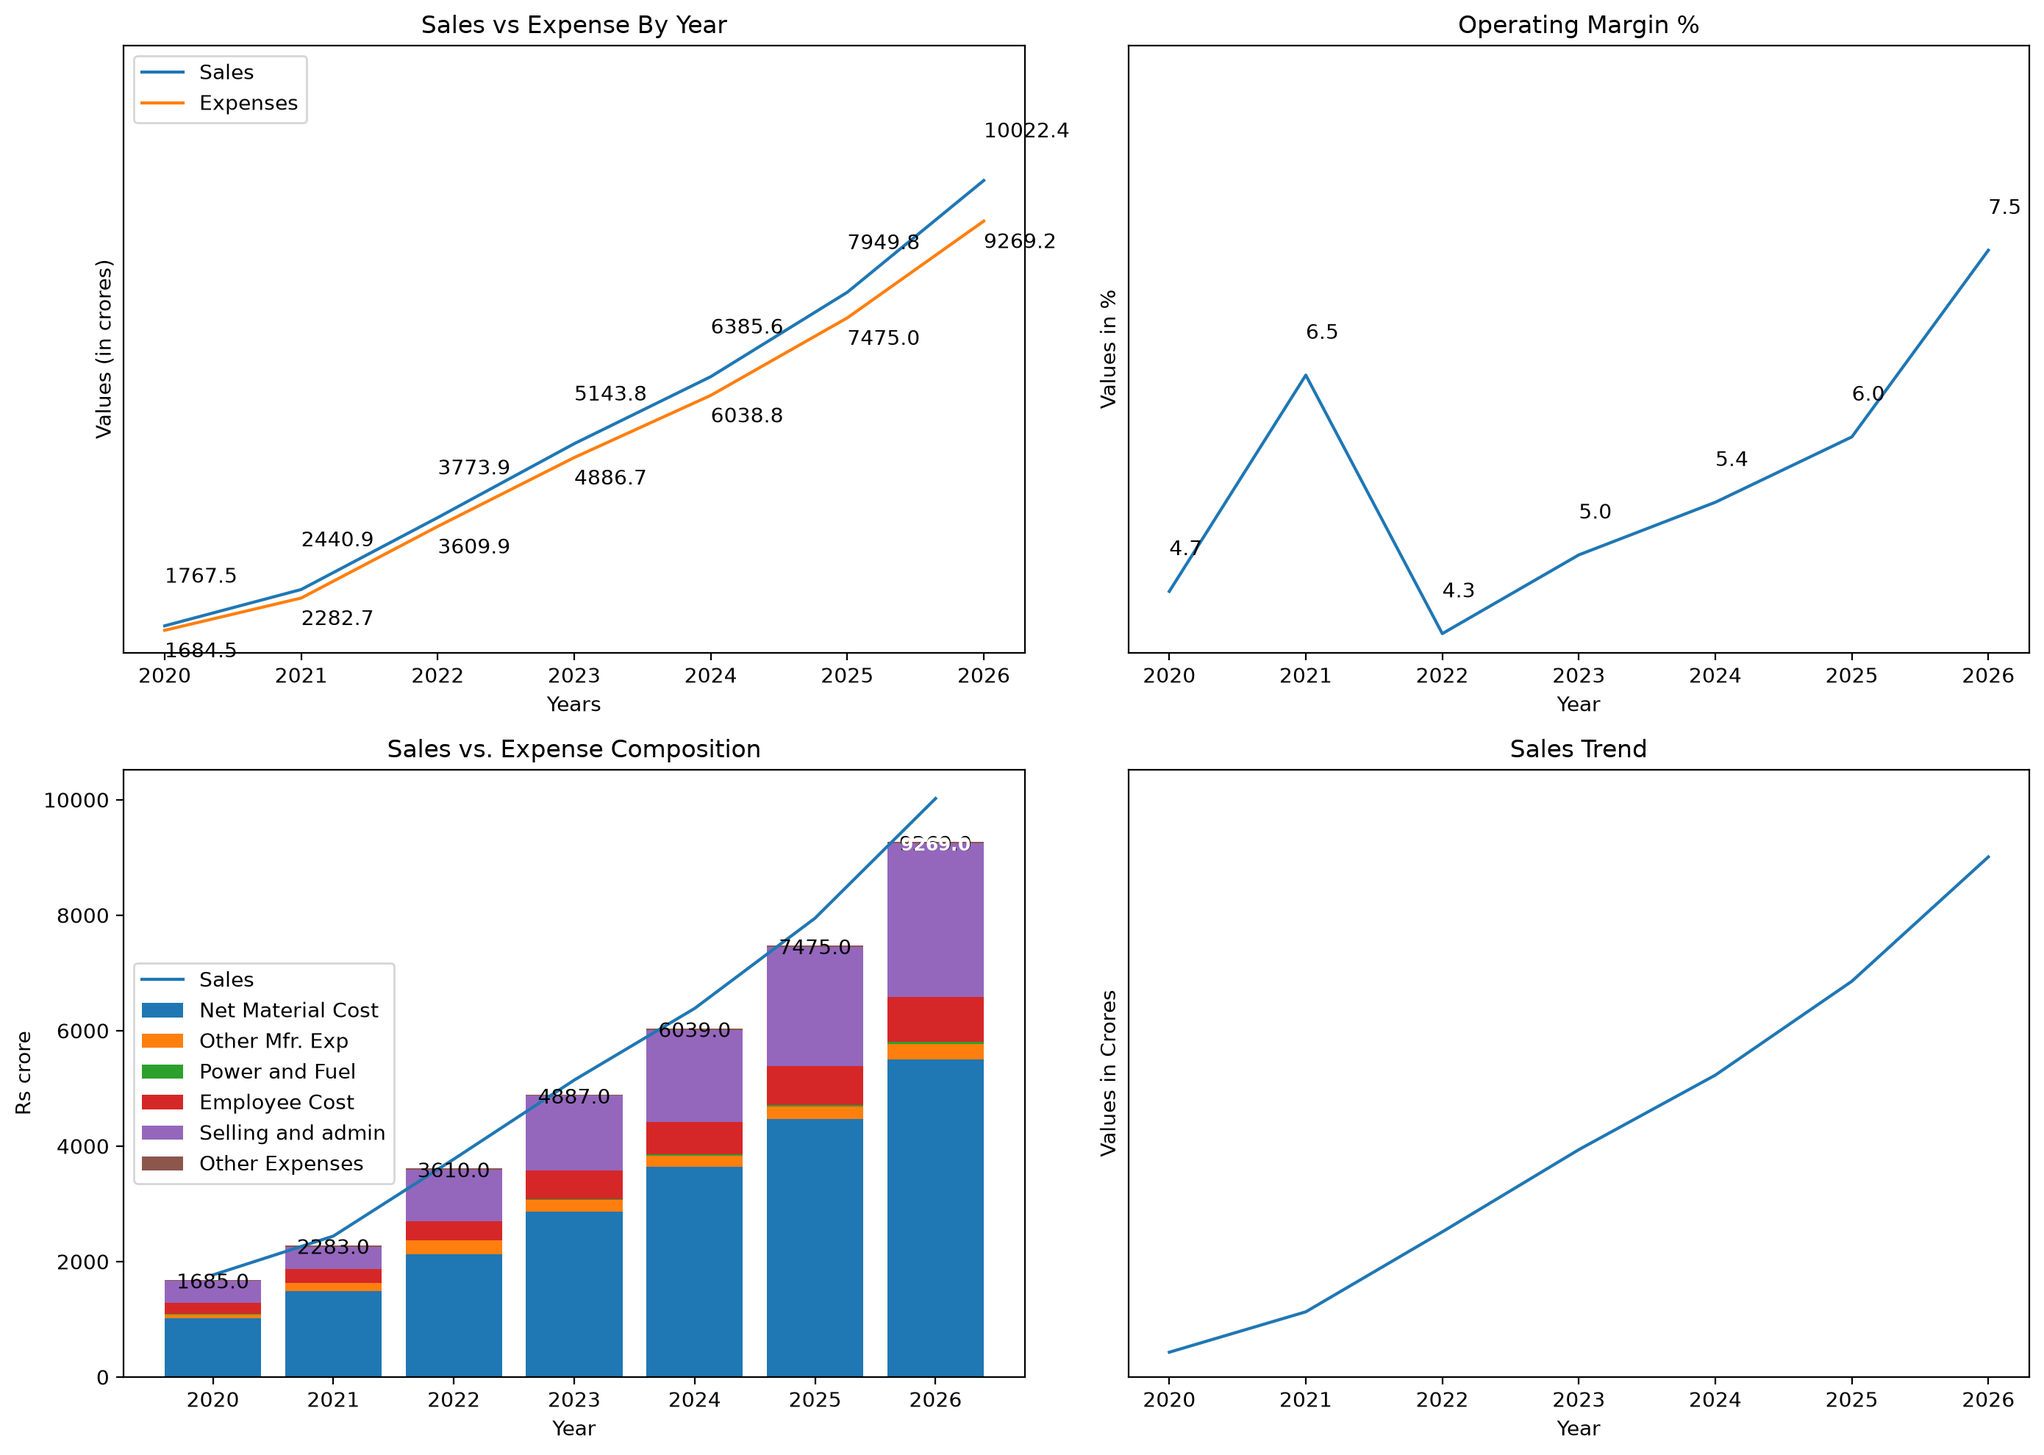
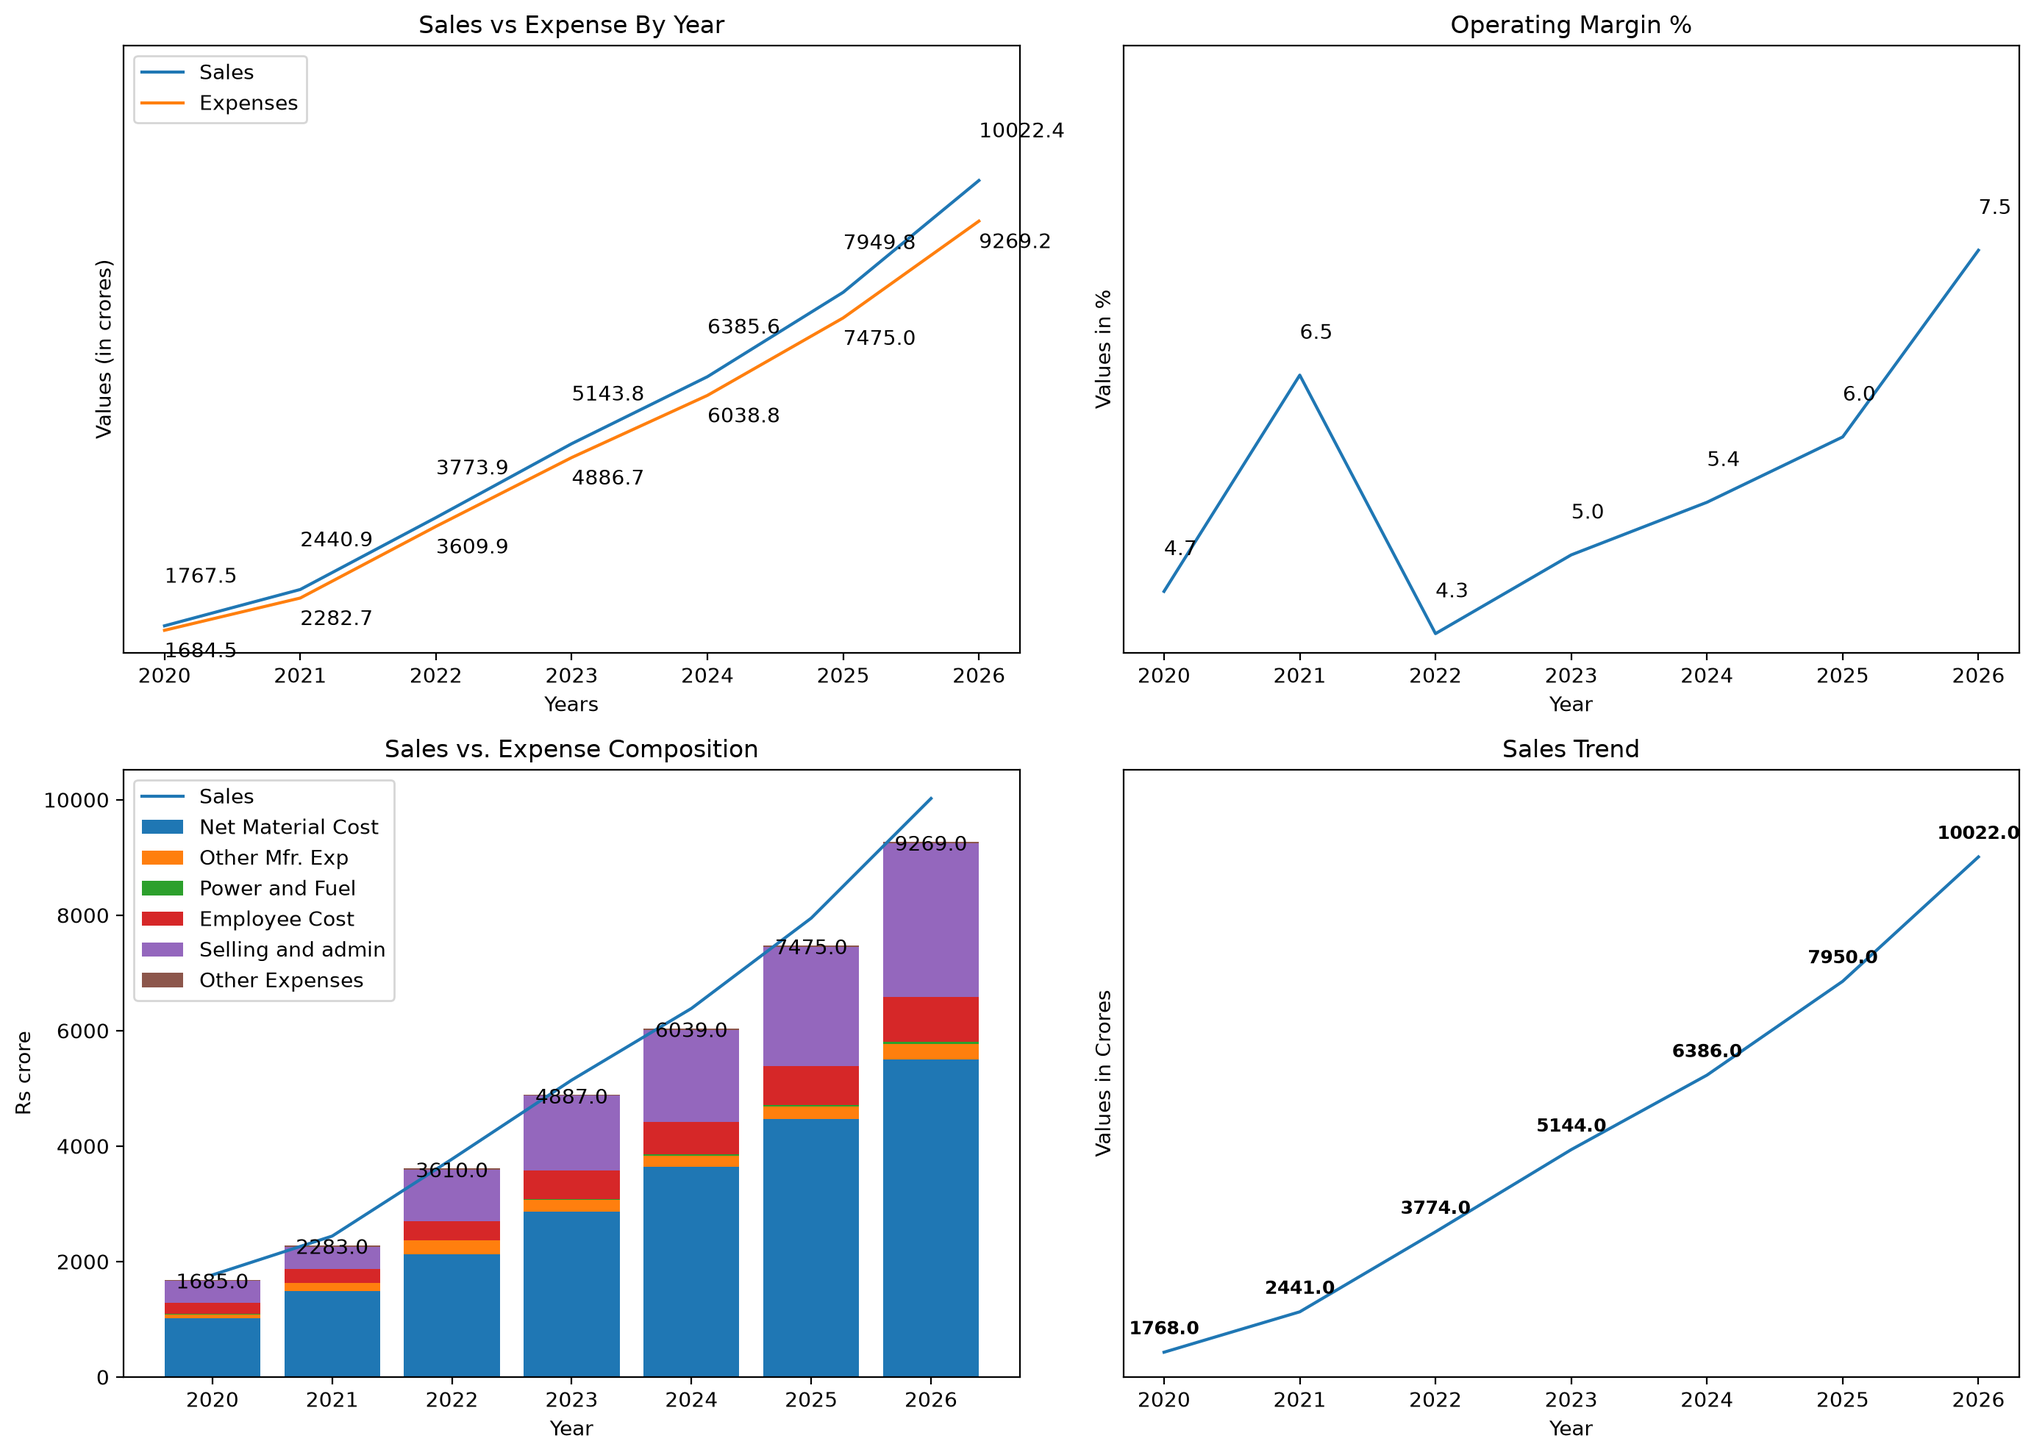
Done Cleanups and .Env Based DB Password

diff --git a/app.py b/app.py
@@ -1,8 +1,20 @@
+"""Nykaa financial analysis pipeline (FY20-FY26).
+Flow: MySQL tables -> pivot to wide -> ratios -> charts -> cash flow bridge -> DCF.
+All money in Rs crore, consolidated. Run: python app.py
+Inputs: MySQL database nykaa_analysis; DB_PASSWORD environment variable.
+Outputs: PNG charts in /charts."""
+
+
 # pyright: reportMissingModuleSource=false, reportMissingImports=false
 import pandas as pd
 import mysql.connector as mysql
 import matplotlib.pyplot as plt
 import os
+from dotenv import load_dotenv
+
+load_dotenv()
+
+DB_Password = os.getenv("DB_Password") 
 
 os.makedirs("charts", exist_ok=True)
 
@@ -10,20 +22,18 @@ pd.set_option('display.max_columns',None)
 pd.set_option('display.width', 1000)
 
 #-----Sql Connection ---------
-
 conn = mysql.connect(
     host = "localhost",
     user= "root",
-    password = "Your Password",
+    password = DB_Password,
     database = "nykaa_analysis")
 
 if conn :
-    print("Connected Sucessfully ")
+    print("Connected Sucessfully")
 else:
     print("Not Connected ")
 
-cursor = conn.cursor()
-#----Data Injection-----
+#----Data ingestion-----
 df_pnl = pd.read_sql("select * from incomestatement_annual",con= conn)
 df_pnl_detailed = pd.read_sql("select * from incomestatement_detailed",con= conn)
 df_balancesheet = pd.read_sql("select * from balancesheet_annual",con= conn)
@@ -40,20 +50,39 @@ df_cashflow_wide = df_cashflow.pivot(index="Year",columns="Metric",values = "Val
 
 #--creating required ratios of pnl statement ----
 df_pnl_wide['Net Profit Margin']= df_pnl_wide['Net profit']/df_pnl_wide['Sales']*100
-df_pnl_wide['Net Operating Margin']= df_pnl_wide['Operating Profit']/df_pnl_wide['Sales']*100
+df_pnl_wide['Net Operating Margin']= df_pnl_wide['Operating Profit']/df_pnl_wide['Sales']*100 #Operating profit cansidered is before depriciation
 df_pnl_wide['Sales (prev year)'] = df_pnl_wide['Sales'].shift(1)
 df_pnl_wide['YoY Growth %'] = (df_pnl_wide['Sales']-df_pnl_wide['Sales (prev year)'])/df_pnl_wide['Sales (prev year)']*100
 df_pnl_wide['Expense (prev year)'] = df_pnl_wide['Expenses'].shift(1)
 df_pnl_wide['YoY Expense %'] = (df_pnl_wide['Expenses']-df_pnl_wide['Expense (prev year)'])/df_pnl_wide['Expense (prev year)']*100
 df_pnl_wide["Interest % of sales"] = df_pnl_wide['Interest']/df_pnl_wide['Sales']*100
-df_pnl_wide["Depriciation % of sales"] = df_pnl_wide['Depreciation']/df_pnl_wide['Sales']*100
+df_pnl_wide["Depreciation % of sales"] = df_pnl_wide['Depreciation']/df_pnl_wide['Sales']*100
+df_pnl_wide['Interest Coverage'] = df_pnl_wide['Operating Profit'] / df_pnl_wide['Interest'] #interest coverage uses that EBITDA-like profit, so it is flattering compared with an EBIT version
 
-#------------more ratios------------
+#Creating Detailed Ratios
 df_pnl_detailed_wide['Raw Material % of sales'] = df_pnl_detailed_wide['Raw Material Cost']/df_pnl_detailed_wide['Sales']*100
 df_pnl_detailed_wide['Power and Fuel % of sales'] = df_pnl_detailed_wide['Power and Fuel']/df_pnl_detailed_wide['Sales']*100
 df_pnl_detailed_wide['Employee Cost % of Sales'] = df_pnl_detailed_wide['Employee Cost']/df_pnl_detailed_wide['Sales']*100
 df_pnl_detailed_wide['Selling and admin % of sales'] = df_pnl_detailed_wide['Selling and admin']/df_pnl_detailed_wide['Sales']*100
 df_pnl_detailed_wide['Other Expenses% of sales'] = df_pnl_detailed_wide['Other Expenses']/df_pnl_detailed_wide['Sales']*100
+
+# Net material cost = raw material purchased adjusted for the change in stock.Used as the cost base for inventory and payable days,
+#which is why those days differ from the sales-basis versions.
+df_pnl_detailed_wide["Net Material Cost"] = df_pnl_detailed_wide["Raw Material Cost"] - df_pnl_detailed_wide["Change in Inventory"]
+
+#-----------Working Capital Ratios--------------
+
+df_workincapital_wide['Debtor Days'] = (df_workincapital_wide['Debtors']/df_pnl_detailed_wide['Sales'])*365
+df_workincapital_wide['Inventory turn-over']= df_pnl_wide['Sales']/df_workincapital_wide['Inventory']
+df_workincapital_wide['Inventory Days (sales basis)'] = 365/df_workincapital_wide['Inventory turn-over'] #Sales basis: uses sales as the base, so it is comparable across companies.
+df_workincapital_wide['Inventory Days (cost basis)'] = df_workincapital_wide['Inventory']/df_pnl_detailed_wide['Net Material Cost']*365 #It was created on cost basis and used net Material cost as the COGS were not available.
+df_workincapital_wide['Operating Cycle (sales basis)'] = df_workincapital_wide['Debtor Days']+df_workincapital_wide['Inventory Days (sales basis)'] #Operating Cycle calculated with Debtor days and Inventory Days(Sales Basis) the cash conversion cycle later subtracts payables.
+df_workincapital_wide['Change in Inventory'] = df_workincapital_wide['Inventory']-df_workincapital_wide['Inventory'].shift(1) #Change in Inventory calculated on current year closing minus previous year closing
+df_workincapital_wide['Change in Debtors'] = df_workincapital_wide['Debtors']-df_workincapital_wide['Debtors'].shift(1) #Change in Debtors calculated on current year closing minus previous year closing
+df_workincapital_wide['Cash effect of Inventory'] = df_workincapital_wide['Change in Inventory']*-1  #"*-1" Fliped the sign because rising inventory absorbs cash.
+df_workincapital_wide['Cash effect of Debtors'] = df_workincapital_wide['Change in Debtors']*-1 #"*-1" Fliped the sign because rise in debtors absorbes cash.
+df_workincapital_wide['WC cash effect'] = df_workincapital_wide['Cash effect of Debtors']+df_workincapital_wide['Cash effect of Inventory'] #Debtors and inventory only. Payables are added later in the comparison table.”
+
 
 #===================================
 #               CHARTS               
@@ -89,7 +118,6 @@ axes[0][1].set_yticks([])
 axes[0][1].set_ylim(top=axes[0][1].get_ylim()[1] * 1.20)
 
 # Chart 3: Stacked bar + Sales line
-df_pnl_detailed_wide["Net Material Cost"] = df_pnl_detailed_wide["Raw Material Cost"] - df_pnl_detailed_wide["Change in Inventory"]
 
 expense_columns = [
     "Net Material Cost", "Other Mfr. Exp", "Power and Fuel",
@@ -114,7 +142,7 @@ axes[1][0].legend()
 axes[1][1].set_title("Sales Trend")
 df_pnl_detailed_wide['Sales'].plot(ax=axes[1][1])
 for year, sales_value in zip(df_pnl_wide.index, df_pnl_wide['Sales']):
-    axes[1][0].text(year, total_value - 150, str(round(total_value, 0)), color="white", ha="center", fontsize=9, fontweight="bold")
+    axes[1][1].text(year, sales_value +300, str(round(sales_value, 0)), color="black", ha="center", fontsize=9, fontweight="bold")
 
 axes[1][1].set_yticks([])
 axes[1][1].set_ylim(top=axes[1][1].get_ylim()[1] * 1.10)
@@ -122,12 +150,13 @@ axes[1][1].set_ylabel("Values in Crores")
 
 fig1.tight_layout()
 fig1.savefig("charts/pnl_ratio_chart.png", dpi=200, bbox_inches="tight")
+plt.close(fig1)
 
 #-----------------------------------------------------------------------------------------#
 #                       BALANCE SHEET                           
 #-----------------------------------------------------------------------------------------
 
-df_combined_bs = pd.merge(df_pnl_wide, df_balancesheet_wide, left_index=True, right_index=True)  #Combined Balace Sheet And P&L Statement
+df_combined_bs = pd.merge(df_pnl_wide, df_balancesheet_wide, left_index=True, right_index=True)  #Combined Balance Sheet And P&L Statement
 
 #=============================================
 #               Balancesheet Ratio 
@@ -136,9 +165,6 @@ df_combined_bs = pd.merge(df_pnl_wide, df_balancesheet_wide, left_index=True, ri
 df_combined_bs['ROE%'] = df_combined_bs['Net profit']/(df_combined_bs['Equity Share Capital']+df_combined_bs['Reserves'])*100
 
 df_combined_bs['Debt to Equity'] = df_combined_bs['Borrowings'] / (df_combined_bs['Equity Share Capital']+df_combined_bs['Reserves'])
-
-df_pnl_wide['Interest Coverage'] = df_pnl_wide['Operating Profit'] / df_pnl_wide['Interest']
-
 
 #=================================================
 #            Balancesheet Charts
@@ -178,23 +204,7 @@ axes[1][1].legend()
 
 fig2.tight_layout()
 fig2.savefig("charts/balancesheet_ratio_chart.png", dpi=200, bbox_inches="tight")
-
-
-#-----------Working Capital Ratios--------------
-
-df_workincapital_wide['Debtor Days'] = (df_workincapital_wide['Debtors']/df_pnl_detailed_wide['Sales'])*365
-df_workincapital_wide['Inventory turn-over']= df_pnl_wide['Sales']/df_workincapital_wide['Inventory']
-df_workincapital_wide['Inventory Days (sales basis)'] = 365/df_workincapital_wide['Inventory turn-over']
-df_workincapital_wide['Inventory Days (cost basis)'] = df_workincapital_wide['Inventory']/df_pnl_detailed_wide['Net Material Cost']*365
-df_workincapital_wide['Operating Cycle (sales basis)'] = df_workincapital_wide['Debtor Days']+df_workincapital_wide['Inventory Days (sales basis)']
-df_workincapital_wide['Change in Inventory'] = df_workincapital_wide['Inventory']-df_workincapital_wide['Inventory'].shift(1)
-df_workincapital_wide['Change in Debtors'] = df_workincapital_wide['Debtors']-df_workincapital_wide['Debtors'].shift(1)
-df_workincapital_wide['Cash effect of Inventory'] = df_workincapital_wide['Change in Inventory']*-1
-df_workincapital_wide['Cash effect of Debtors'] = df_workincapital_wide['Change in Debtors']*-1
-df_workincapital_wide['WC cash effect'] = df_workincapital_wide['Cash effect of Debtors']+df_workincapital_wide['Cash effect of Inventory']
-
-
-#print(df_workincapital_wide[['Debtor Days','Inventory Days (sales basis)','Operating Cycle (sales basis)']].round(1))
+plt.close(fig2)
 
 #================================================
 #             Working capital Charts 
@@ -214,14 +224,14 @@ for year, days  in zip(df_workincapital_wide.index, wc_running_total):
 axes.plot(df_workincapital_wide.index, df_workincapital_wide['Operating Cycle (sales basis)'], marker="o", color="black", label="Operating Cycle")
 axes.set_ylabel("Days")
 axes.set_xlabel("Year")
-axes.set_xticks(df_workincapital_wide.index) and axes.set_xticklabels([f"FY{str(y)[-2:]}" for y in df_workincapital_wide.index])
+axes.set_xticks(df_workincapital_wide.index) 
+axes.set_xticklabels([f"FY{str(y)[-2:]}" for y in df_workincapital_wide.index])
 axes.legend()
 axes.set_title("Operating Cycle: Inventory Days + Debtor Days (Sales basis)")
 
 fig3.tight_layout()
 fig3.savefig("charts/working_capital_chart.png", dpi=200, bbox_inches="tight")
-#plt.show()
-
+plt.close(fig3)
 
 #---------------Cash Flow Ratios------------
 df_combined_2 = pd.merge(df_pnl_wide,df_cashflow_wide,left_index= True , right_index= True) #P&L And Cashflow Combined 
@@ -229,23 +239,13 @@ df_combined_2 = pd.merge(df_pnl_wide,df_cashflow_wide,left_index= True , right_i
 
 df_combined_2['cash conversion ratio'] = df_combined_2['Cash from Operating Activity']/df_combined_2['Net profit']
 
-#print(df_combined_2[['Net profit','Cash from Operating Activity','cash conversion ratio']].round(2))
-
-#print(df_cashflow_wide.round(2))
-
-#print(df_workincapital_wide[['Debtors','Change in Debtors','Inventory', 'Change in Inventory','Cash effect of Inventory','Cash effect of Debtors','WC cash effect']])
-
-#print(df_pnl_wide['Depreciation'])
-
-
-
-#creating a conparison table to compare the distrubution across the cashflow 
+#creating a Comparison table to compare the Distribution across the cashflow 
 df_comparison = df_workincapital_wide[["WC cash effect"]].join(df_pnl_wide[["Depreciation", "Net profit"]]).join(df_cashflow_wide[["Cash from Operating Activity"]])
 df_comparison['Gap'] = df_comparison['Cash from Operating Activity']-df_comparison['Net profit']
 df_comparison['Unexplained'] = df_comparison['Gap']-df_comparison['WC cash effect']-df_comparison['Depreciation']
 
 
-#creting trade payble from sources 
+#Creating trade Payable from sources 
 
 data = {'Year':[2020,2021,2022,2023,2024,2025,2026],
     'Trade Payables':[313.27,316.21,362.05,265.39,386.69,634.83,732.50],
@@ -282,8 +282,6 @@ df_comparison['Fixed assets purchased'] = df_capex['Fixed assets purchased']
 
 df_comparison['FCF'] = df_comparison['Cash from Operating Activity']+df_comparison['Fixed assets purchased']
 
-#print(df_comparison.round(1))
-
 #Cash Conversion Chart 
 
 fig4, axes = plt.subplots(figsize=(10,6))
@@ -295,24 +293,25 @@ axes.grid(True)
 axes.set_xlabel("Fiscal Year")
 axes.set_ylabel("Days")
 axes.legend()
-axes.set_title("Cycle ended where it started: shorter supplier credit offset faster inventory")
+axes.set_title("Cash conversion cycle, FY20 to FY26")
 
 fig4.tight_layout()
-fig4.savefig("charts/cash_coversion", dpi=200, bbox_inches="tight")
+fig4.savefig("charts/cash_conversion_cycle_chart.png", dpi=200, bbox_inches="tight")
+plt.close(fig4)
 
 
 #Creating DCF 
 sales_base = 10022.35 #2026 Sales 
 Growth = [0.22, 0.19, 0.16, 0.13, 0.10] #Growth Assumption Rates For 2027 - 2031
 fc_Operating_Margin = [0.08, 0.085, 0.09, 0.095, 0.10] #Forecasted Operating Margin Assumption Rates For 2027 - 2031
-fc_capex = [0.018684, 0.022004, 0.025323, 0.028643, 0.031962]
+fc_capex = [0.018684, 0.022004, 0.025323, 0.028643, 0.031962] #Capex ramps from the FY26 level (154 ÷ 10,022 = 1.54%) up to the depreciation share (3.20%)
 discount_rate = 0.12 #Fixed Discount Rate 
 terminal_growth = 0.05
+tax_rate = 0.25
+wc_pct = 0.1196 #0.1196 is the wc_pct which is derived from (inventory + debtors − payables) ÷ sales.
+dep_share = 320.33 / 10022.35 # Depreciation Share Calculation for future Depreciation values
 
-
-dep_share = 320.33 / 10022.35 # Depriciation Share Calculation for future depriciation values
-
-#calculating forcasted sales value on the basis growth assumption
+#calculating forecasted sales value on the basis growth assumption
 fc_sales = []                       
 current_sales = sales_base          
 
@@ -335,27 +334,23 @@ forecasts['Op Margin'] = fc_Operating_Margin
 forecasts['Op Profit'] = forecasts['Op Margin']*forecasts['Sales']
 forecasts["Depreciation"] = forecasts["Sales"] * dep_share
 forecasts["EBIT"] = forecasts['Op Profit'] - forecasts["Depreciation"] 
-forecasts["NOPAT"] = forecasts["EBIT"] *(1-0.25)
+forecasts["NOPAT"] = forecasts["EBIT"] *(1-tax_rate)
 forecasts["Capex"] = forecasts['Sales']*fc_capex
-forecasts["Increse in WC"] = 0.1196*(forecasts['Sales']-forecasts['Sales'].shift(1,fill_value=sales_base))
-forecasts["FCFF"] = forecasts["NOPAT"]+forecasts["Depreciation"]-forecasts["Capex"]-forecasts["Increse in WC"]
+forecasts["Increase in WC"] = wc_pct*(forecasts['Sales']-forecasts['Sales'].shift(1,fill_value=sales_base))  #0.1196 is the wc_pct which is derived from (inventory + debtors − payables) ÷ sales.
+forecasts["FCFF"] = forecasts["NOPAT"]+forecasts["Depreciation"]-forecasts["Capex"]-forecasts["Increase in WC"]
 
 #discount the cash flows to today
-forecasts["Discount Factor"] = 1/(1.12**(forecasts.index-2026))
+forecasts["Discount Factor"] = 1 / ((1 + discount_rate) ** (forecasts.index - 2026))
 forecasts["PV of FCFF"] = forecasts["FCFF"]*forecasts["Discount Factor"]
 terminal_value = forecasts['FCFF'].iloc[-1]*(1+terminal_growth)/(discount_rate-terminal_growth)
 present_value_tv = terminal_value*forecasts['Discount Factor'].iloc[-1]
 enterprise_value = forecasts['PV of FCFF'].sum()+present_value_tv
 
-
-#print(terminal_value,present_value_tv,enterprise_value)
-#print(present_value_tv/enterprise_value*100)
-
-#calculations on todays value 02-11-2026
+#calculations on today's value 02-11-2026
 Borrowings = 1237.81 #NSE updated borrowings including leases and non current borrowings
 Cash_Bank_bl = 320.03 #FY26 filing, NSE
 Nykaa_share_price = 349.50 #as per NSE on 02-11-2026
-shares_cr = 286.43 
+shares_cr = 286.43 # crore shares, Sep 2026 shareholding
 
 Net_Debt = Borrowings-Cash_Bank_bl
 Equity_Value = enterprise_value-Net_Debt
@@ -363,11 +358,9 @@ Value_per_share =Equity_Value/shares_cr
 
 Upside = round((Value_per_share/Nykaa_share_price-1)*100,1)
 
-#print(Net_Debt,Equity_Value,Value_per_share,Upside)
-
 discount_rates = [0.11, 0.12, 0.13, 0.14]
 growth_rates = [0.04, 0.05, 0.06]
-shares_cr = 286.43                      # crore shares, Sep 2026 shareholding
+
 
 rows = []                               # one row of results per discount rate
 
@@ -388,7 +381,6 @@ sensitivity = pd.DataFrame(rows, index=discount_rates, columns=growth_rates).rou
 sensitivity.index.name = "Discount rate"
 
 ref1 = pd.DataFrame()
-
 ref1['Net profit'] = df_comparison['Net profit']
 ref1['Operating cash flow'] = df_comparison['Cash from Operating Activity']
 ref1['Free cash flow'] = df_comparison['FCF']
@@ -408,8 +400,10 @@ axes.set_ylabel("Rs crore")
 axes.set_xlabel("Fiscal Year")
 plt.xticks(rotation=0)
 axes.legend()
-plt.savefig("charts/cash_flow_chart.png", dpi=200, bbox_inches="tight")
+fig5.savefig("charts/cash_flow_chart.png", dpi=200, bbox_inches="tight")
+plt.close(fig5)
 
 
-
-
+print(sensitivity)
+print(Net_Debt)
+print(Value_per_share)
